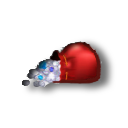
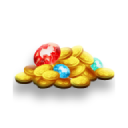
more loots, choose game mode

Changed region(s): [[0.0938, 0.3125, 0.9062, 0.8125]]

diff --git a/server.py b/server.py
@@ -19,8 +19,8 @@ pos = {0:[(330,110), (380,110) ], 1:[(680,110), (730,110)]}
 
 # Loot items
 items = {
-    'item': ['W', 'C', 'PA', 'PH', 'B', 'L'],
-    'pos': [(770, 430), (970, 435), (225, 640), (125, 455), (395, 690), (255, 480)]
+    'item': ['W', 'C', 'PA', 'PH', 'J', 'M', 'L', 'B'],
+    'pos': [(770, 430), (970, 435), (225, 640), (125, 455), (395, 690), (255, 480), (575, 770), (480, 580)]
     }
 
 # Number of medicines remaining
@@ -32,6 +32,8 @@ team_state = {'jailed_count': [0, 0], 'items_count': [0, 0]}
 # Players in game
 players = {}
 
+# Game Mode: {2: Solo, 4: Duo}
+gameMode = int(input('Choose Mode [2-Solo, 4-Duo]: '))
 
 #########################################################################################################################
 
@@ -39,12 +41,10 @@ players = {}
 sio = socketio.Server()
 app = socketio.WSGIApp(sio)
 
-
 # When player is connected
 @sio.event
 def connect(sid, environ):
     print(Fore.WHITE + 'Connection request recieved.')
-
 
 # When any player disconenct from server:
 # notify others about leaving with (player_id, ids of items he had [for dropping])
@@ -68,7 +68,6 @@ def disconnect(sid):
         print(Fore.WHITE + 'Game Ended.')
         print(Fore.MAGENTA + '-' * 60)
 
-
 # When player says he is ready to play
 @sio.event
 def ready(sid):
@@ -80,7 +79,7 @@ def ready(sid):
     print(Fore.GREEN + 'Player Ready: ' + Fore.WHITE + players[sid]["name"])
 
     # If every player is ready, then signal players to start game
-    if list(map(lambda p:p['status'],players.values())).count(2) == 2:
+    if list(map(lambda p:p['status'],players.values())).count(2) == gameMode:
         shuffle(items['item'])
         shuffle(items['pos'])
         data = [1] # status: [0: stop, 1: start]
@@ -88,18 +87,15 @@ def ready(sid):
         sio.emit('gameState', data)
         print(Fore.WHITE + 'Game Started.')
 
-
 # Player Movement
 @sio.event
 def move(sid, data):
     sio.emit('move', data)
 
-
 # Toggling lights
 @sio.event
 def light(sid, flag):
     sio.emit('light', flag)
-
 
 # When player try to take medicines
 @sio.event
@@ -115,7 +111,6 @@ def meds(sid):
         status = meds_count
         players[sid]['life'] = 1
         sio.emit('meds', [sid, status])
-
 
 # When player pickup or drop items.
 # status: [0: drop, 1: pickup]
@@ -149,12 +144,10 @@ def item(sid, data):
             print(Fore.WHITE + 'Game Ended.')
             print(Fore.MAGENTA + '-' * 60)
 
-
 # Open/clode door
 @sio.event
 def door(sid, data):
     sio.emit('door', data)
-
 
 # Player escaped from jail
 @sio.event
@@ -166,7 +159,6 @@ def escape(sid):
     players[sid]['life'] = 1
     team_state['jailed_count'][players[sid]['team']] -= 1 # update game state
     sio.emit('jail', [0, sid, 0, 0]) # notify all players (status, player_id, position, items)
-
 
 # Whenever a player attacks, update life
 # if knocked down, send to jail
@@ -189,7 +181,6 @@ def attack(sid, data):
                     sio.emit('gameState', [0, winner_team])
             else:
                 sio.emit('attack', [pid, players[pid]['life']])
-
 
 @sio.event
 def join(sid, data):
@@ -225,10 +216,13 @@ def check_for_winner():
     global team_state
 
     winner_team = -1
-    if 4 in team_state['items_count']:
-        winner_team = team_state['items_count'].index(4)
-    elif 2 in team_state['jailed_count']:
-        winner_team = (team_state['jailed_count'].index(1) + 1) % 2
+    loot_target = gameMode * 2
+    jail_target = gameMode // 2
+
+    if loot_target in team_state['items_count']:
+        winner_team = team_state['items_count'].index(loot_target)
+    elif jail_target in team_state['jailed_count']:
+        winner_team = (team_state['jailed_count'].index(jail_target) + 1) % 2
 
     return winner_team
 
@@ -239,5 +233,4 @@ def check_for_winner():
 if __name__ == '__main__':
     print(Fore.YELLOW + f"( SERVER IP: { gethostbyname(gethostname()) } )".center(60, '_'))
     print()
-
     eventlet.wsgi.server(eventlet.listen(('', 5000)), app, log_output=False)

diff --git a/client.py b/client.py
@@ -1,11 +1,10 @@
-import socketio
-
 """
 LIB Changes:
 easygui > boxes > multi_fillable_box.py > class GUItk > __init__() : Line 272 = self.set_pos('300x200+300+200')
 pyglet > gl > lib.py > errcheck() > Line 108 = #raise GLException(msg)
 """
 
+import socketio
 from random import randrange
 from textwrap import wrap
 
@@ -83,7 +82,7 @@ class HomeView(arcade.View):
                 # Get player name and host IP from user input
                 config.getConfigFromUser()
 
-                self.io.connect(f'http://{ config.host }:5000')
+                self.io.connect(f'http://{config.host}:5000')
             except Exception as e:
                 print(e)
                 msg = "Can't connect with server. Try again later."
@@ -410,7 +409,7 @@ class GameView(arcade.View):
                         if inventory < BAG_CAPACITY:
                             item_ids = list(map(lambda i: i.id, filter(lambda i: i.code == item.code, game.item_list)))
                             if not any(id in item_ids for id in self.player.items):
-                                if item.code in ['C', 'PH', 'L', 'PA', 'W', 'B']:
+                                if item.code in ['C', 'PH', 'L', 'PA', 'W', 'B', 'J', 'M']:
                                     pickups.append((item.id, 1))
                                 else:
                                     pickups.append((item.id, 0))
@@ -434,7 +433,7 @@ class GameView(arcade.View):
             else:
                 drop_item_id = self.player.items[self.player.cur_item]
                 item = self.item_cache[drop_item_id]
-                if item.code in ['C', 'PH', 'L', 'PA', 'W', 'B']:
+                if item.code in ['C', 'PH', 'L', 'PA', 'W', 'B', 'J', 'M']:
                     self.io.emit('item', [self.player.id, [(drop_item_id, 1)], 0, self.player.position])
                 else:
                     self.io.emit('item', [self.player.id, [(drop_item_id, 0)], 0, self.player.position])
@@ -851,6 +850,7 @@ def main():
                 game.window.show_view(view)
             else:
                 winner_team = data[1]
+                game.bgm.stop()
                 view = GameEndView(game.io, winner_team, game.player.team, game.light_layer)
                 game.window.show_view(view)
 

diff --git a/item.py b/item.py
@@ -17,6 +17,8 @@ class Item(Sprite):
             'PA': ('painting', 'Monalisa Painting', '[ Worth Rs.5200 Cr ]'),
             'W': ('watch', 'Patek Luxury Watch', '[ Worth Rs.30 Cr ]'),
             'B': ('key', "BMW Key", '[ Car worths Rs.12 Cr ]'),
+            'J': ('jewel', "Gold and Jewels", '[ Worths Rs.5 Cr ]'),
+            'M': ('coupon', "MochaTek Coupon", '[ Free software license ]'),
         }
 
         super().__init__('res\Items\{}.png'.format(item_dict[item][0]))
